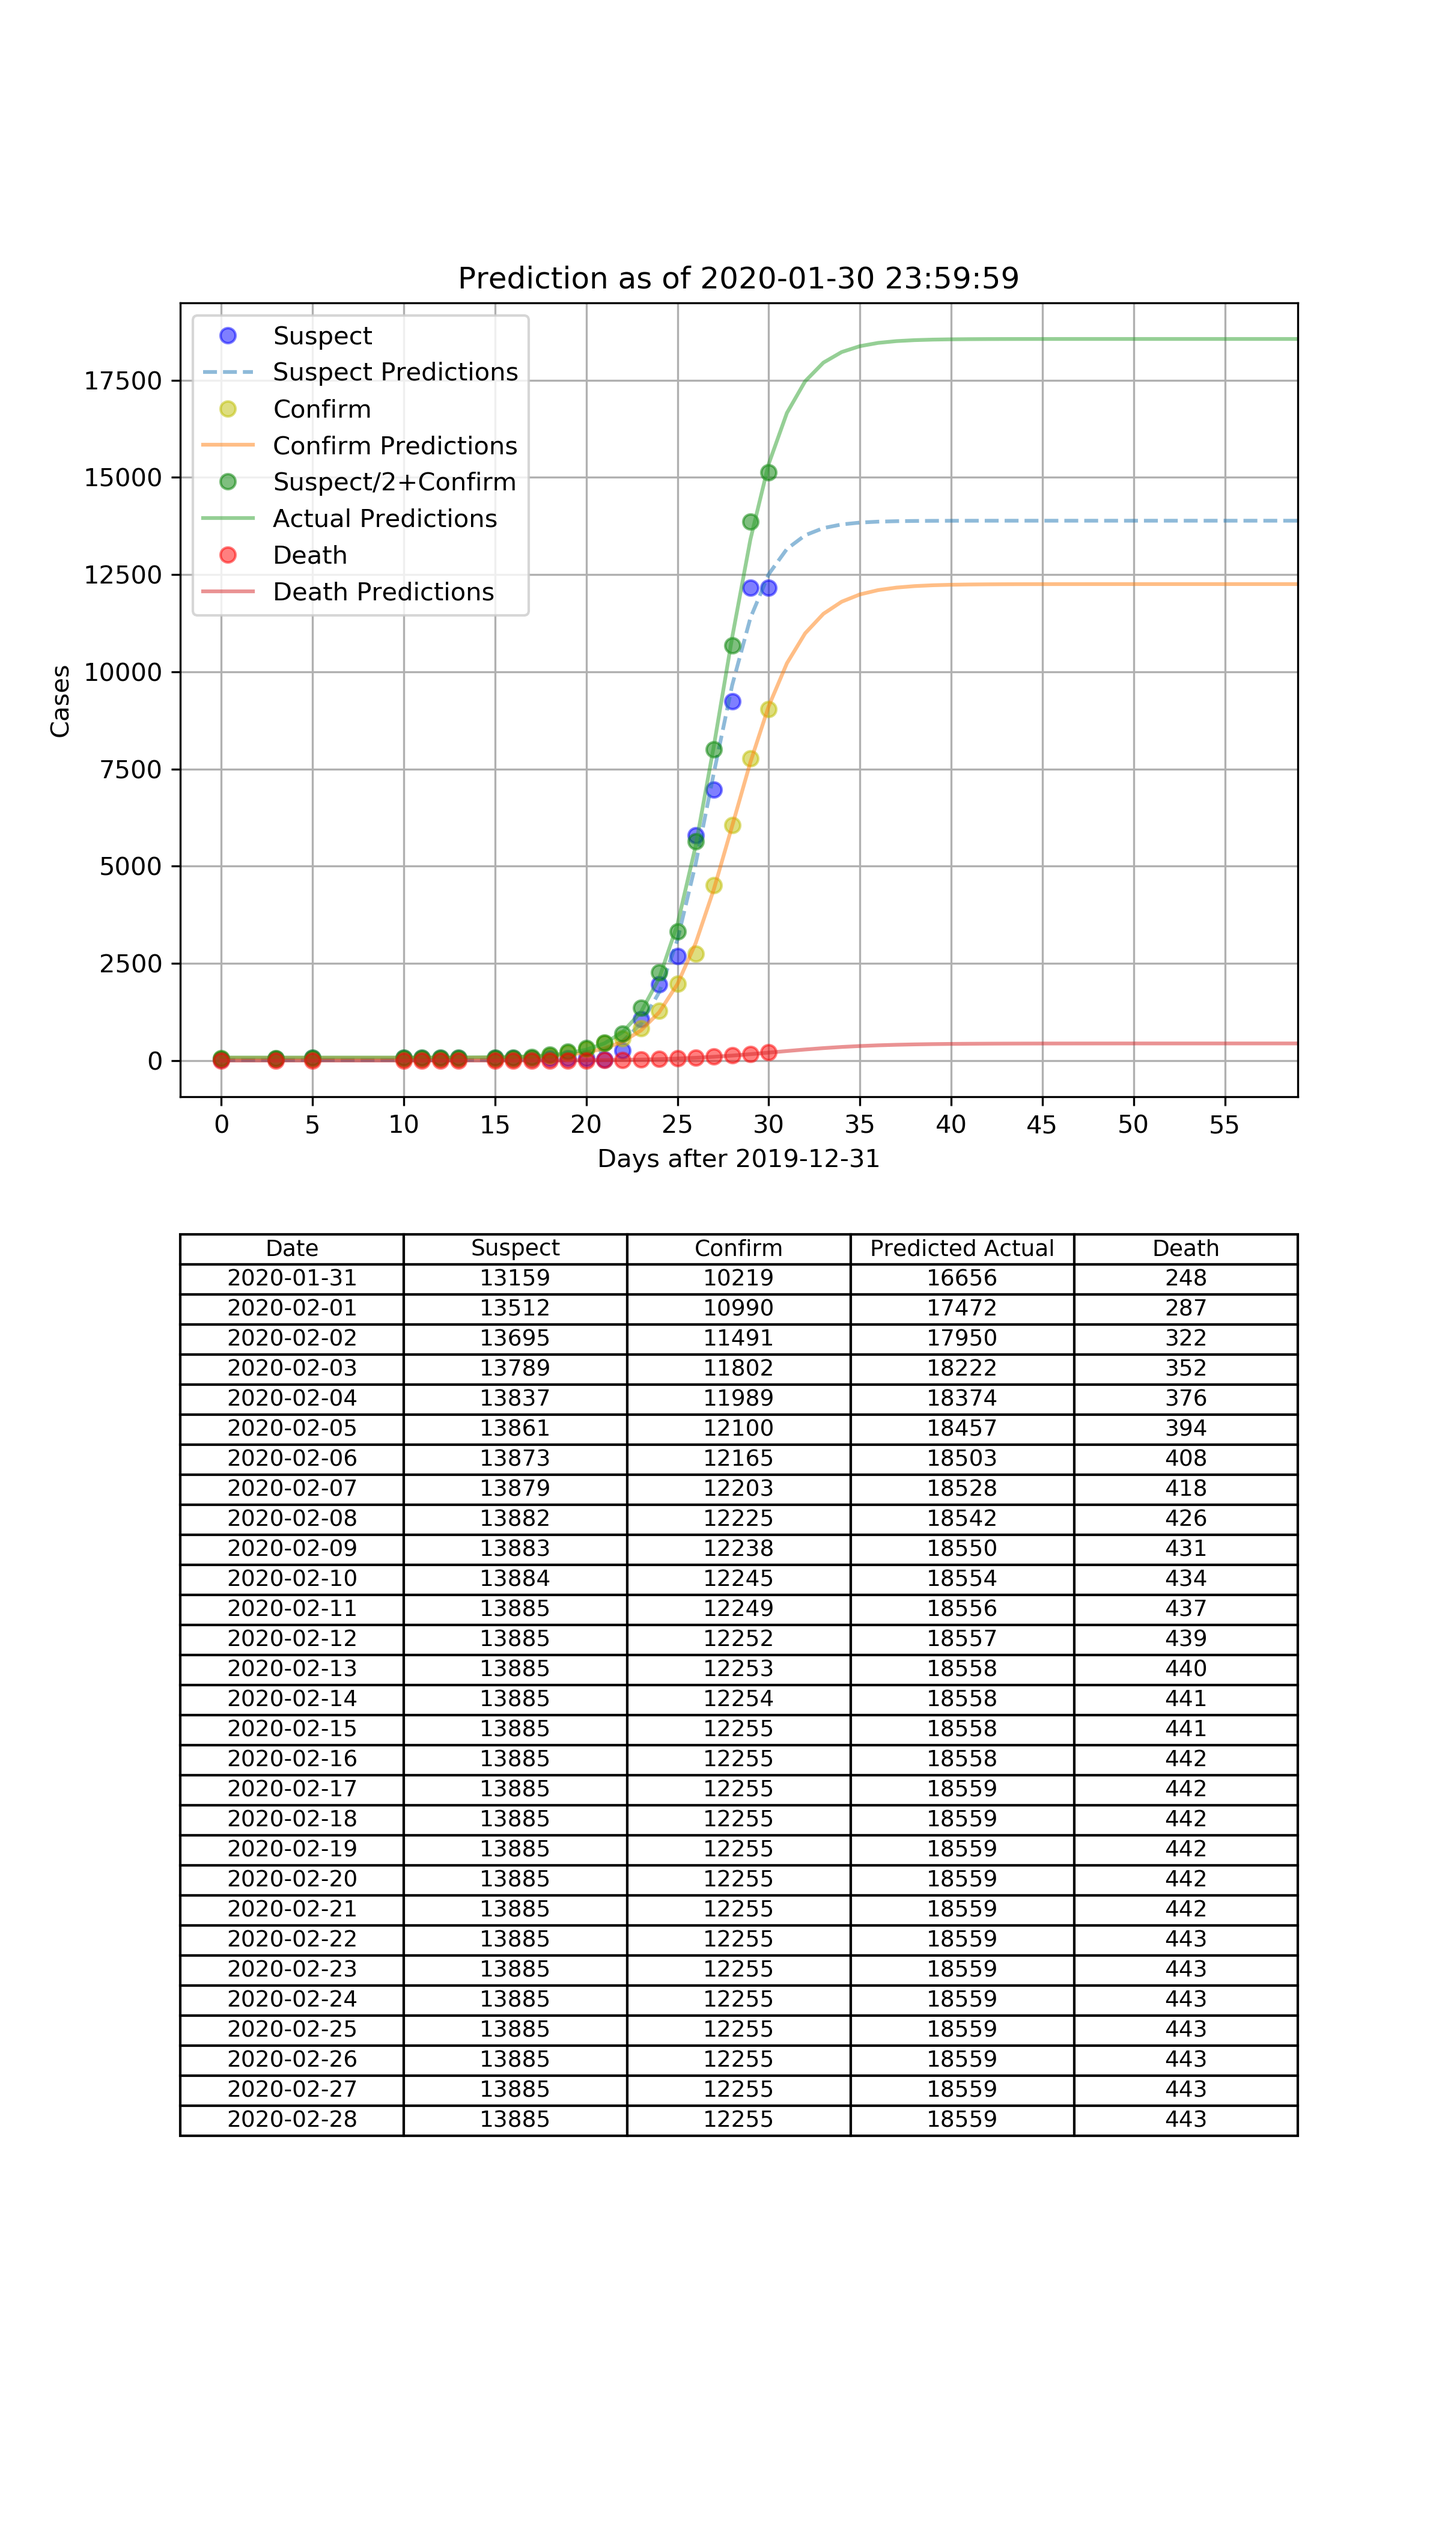
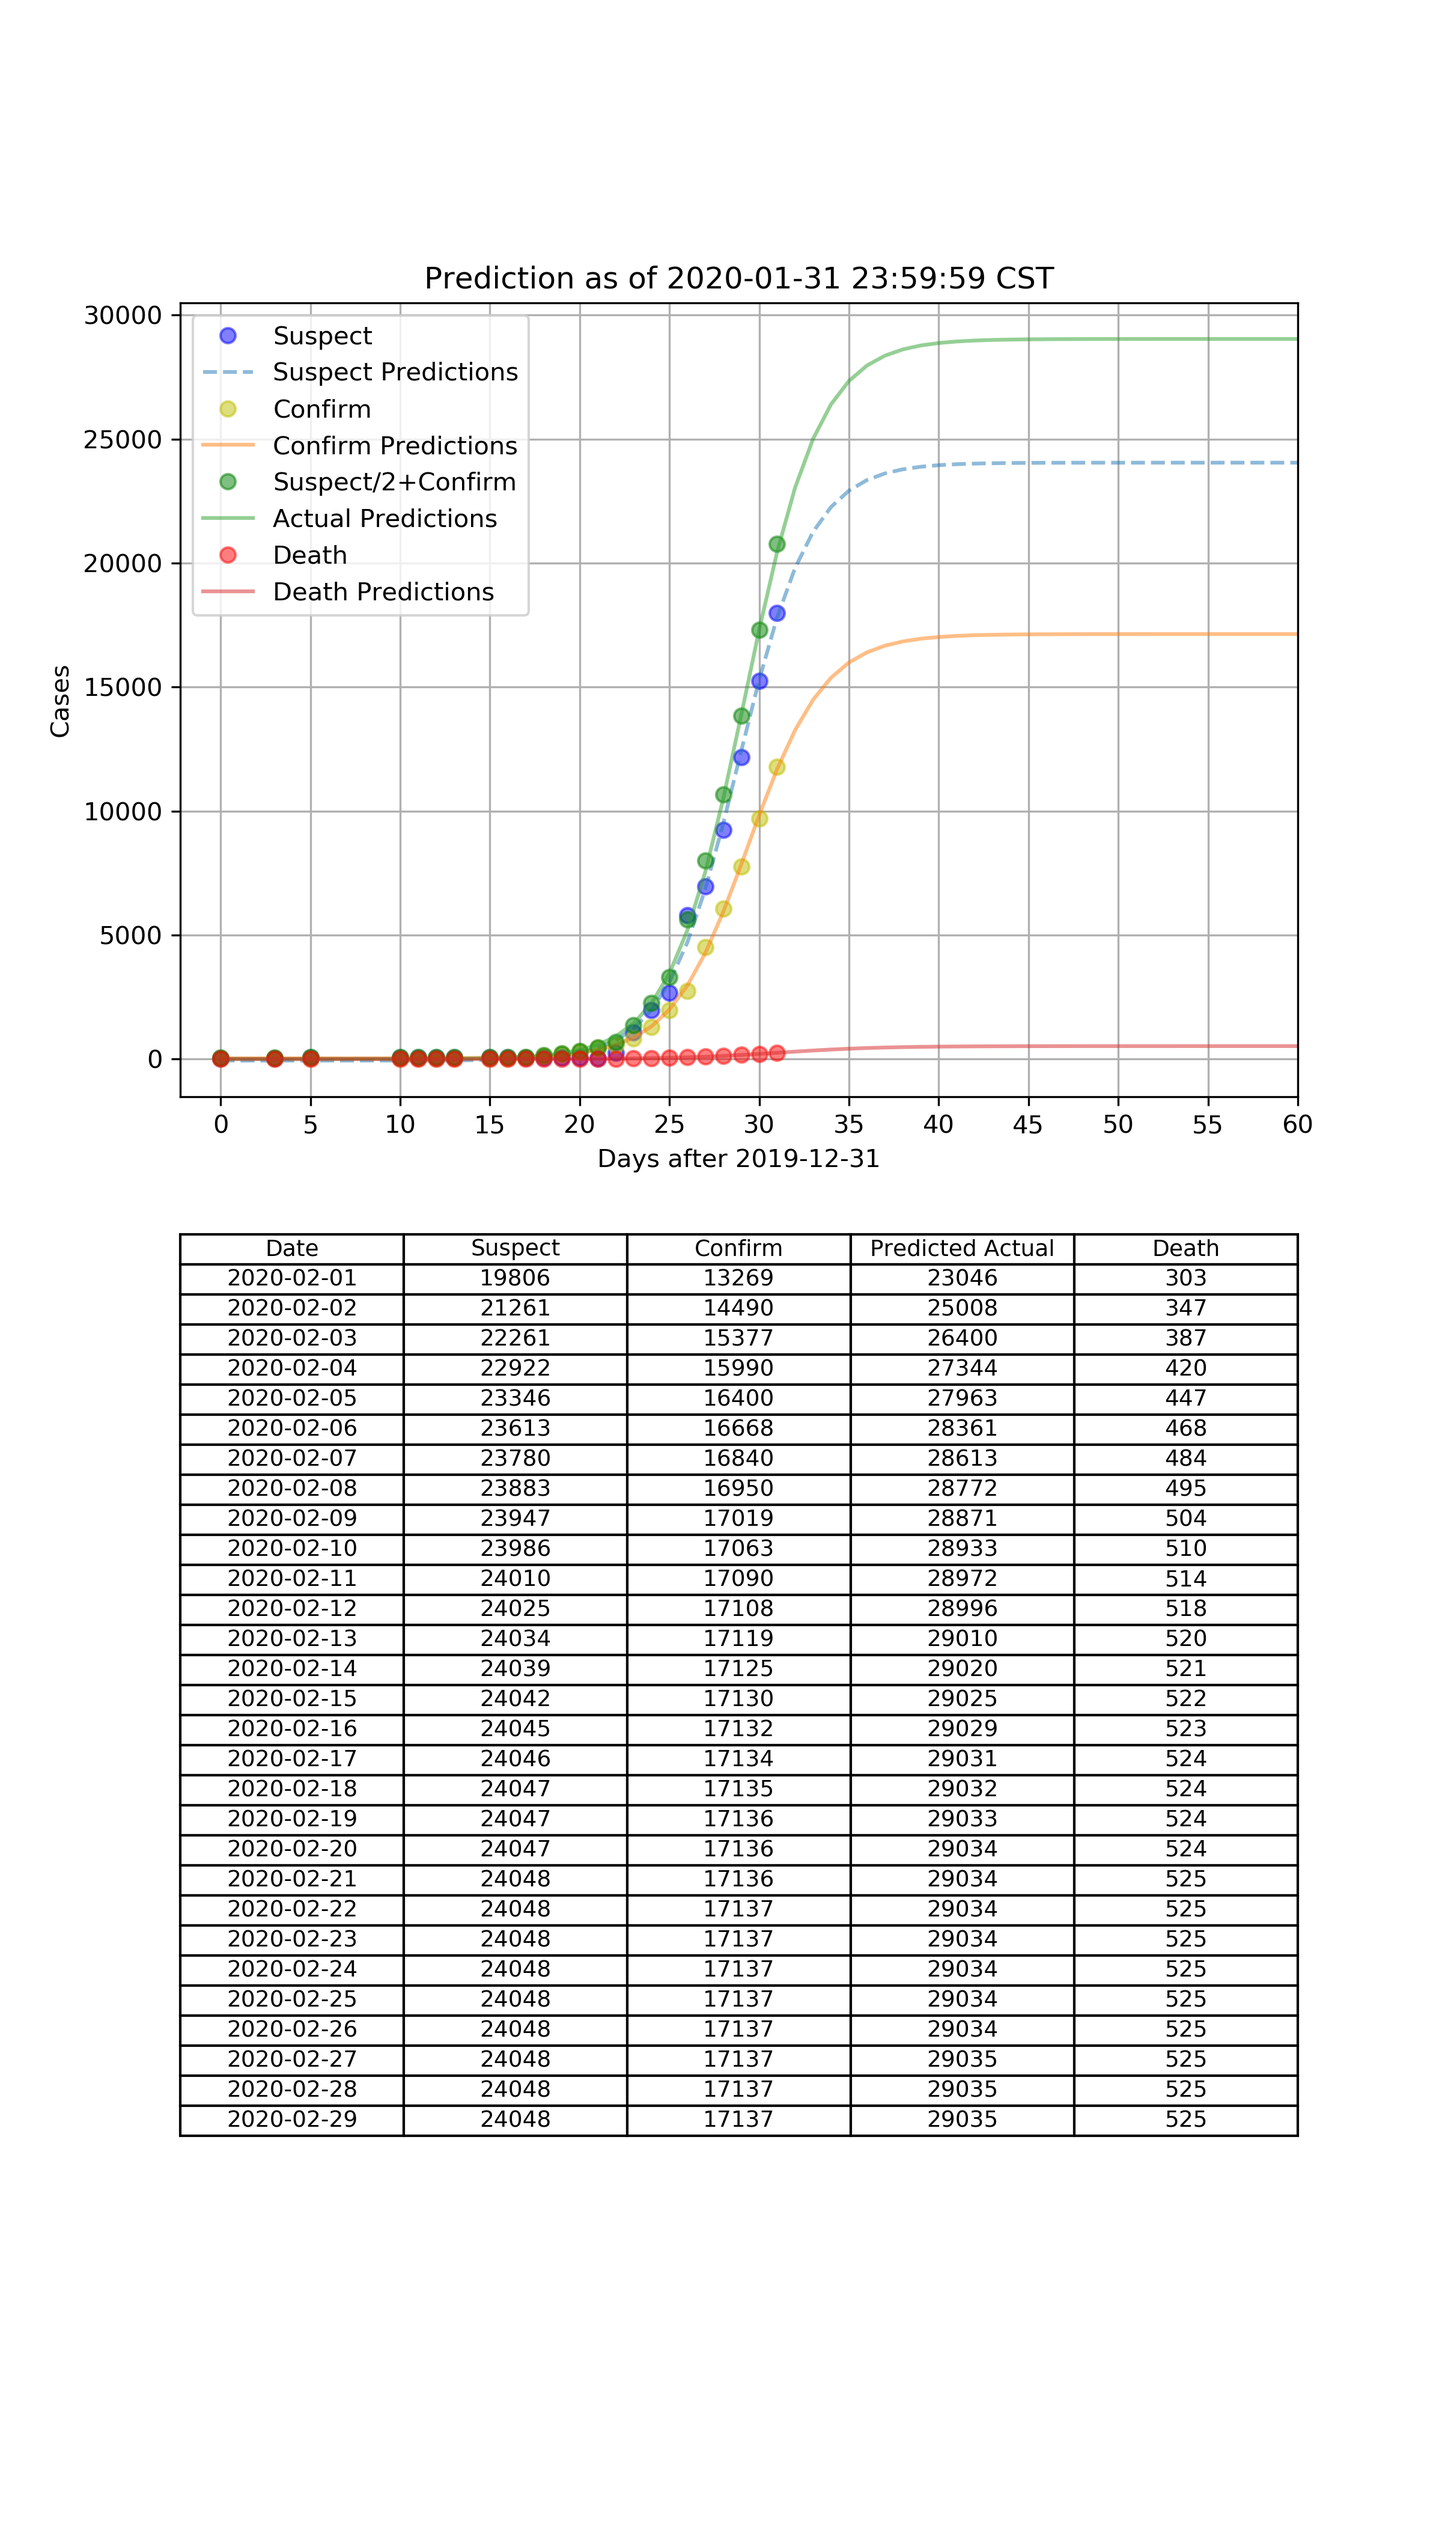
update 2020-01-31

diff --git a/2019_nCoV_SIR.py b/2019_nCoV_SIR.py
@@ -3,7 +3,7 @@ from scipy.integrate import odeint
 import matplotlib.pyplot as plt
 
 import pandas as pd
-from datetime import datetime
+from datetime import datetime, timedelta
 
 info_frame = pd.read_csv('data/2019-nCoV.csv')
 info_frame.fillna(method='ffill', inplace=True)
@@ -20,13 +20,13 @@ Y_frame = info_frame.drop(['Date CST'], axis=1)
 Ys = Y_frame.to_numpy().transpose()
 
 # Total population, N.
-N = 1400000000
+N = 30000000
 # Initial number of infected and recovered individuals, I0 and R0.
 I0, R0 = 1, 0
 # Everyone else, S0, is susceptible to infection initially.
 S0 = N - I0 - R0
 # Contact rate, beta, and mean recovery rate, gamma, (in 1/days).
-beta, gamma = 0.6, 1e-3
+beta, gamma = 0.6, 4e-3
 # A grid of time points (in days)
 t = np.linspace(0, 160, 160)
 
@@ -46,26 +46,34 @@ y0 = S0, I0, R0
 ret = odeint(deriv, y0, t, args=(N, beta, gamma))
 S, I, R = ret.T
 
-plt.clf()
-plt.rcParams['figure.figsize'] = [8, 6]
 
-axs = [None, None]
-axs[0] = plt.subplot()
+def graph():
+    plt.clf()
+    plt.rcParams['figure.figsize'] = [8, 6]
 
-axs[0].set_xlabel('Days after 2019-12-31')
-axs[0].set_ylabel('Cases')
+    axs = [None, None]
+    axs[0] = plt.subplot()
 
-# axs[0].plot(X, Ys[0], 'yo', label='Suspect', alpha=0.5)
-# axs[0].plot(X, Ys[1], 'ro', label='Confirm', alpha=0.5)
-axs[0].plot(X, Ys[0] / 2 + Ys[1], 'bo', label='Suspect/2+Confirm', alpha=0.5)
-axs[0].plot(X, Ys[3], 'go', label='Recovered', alpha=0.5)
-# axs[0].set_xlim(-2.25, today_days + 29)
-# axs[0].set_xticks(np.arange(today_days + 30, step=5))
-axs[0].grid()
-axs[0].legend(loc='best')
+    axs[0].title.set_text(
+        'Prediction as of {} CST (SIR model)'.format(str(today_date + timedelta(hours=23, minutes=59, seconds=59))))
+    axs[0].set_xlabel('Days after 2019-12-31')
+    axs[0].set_ylabel('Cases')
 
-# axs[0].plot(t, S/1000, 'b', alpha=0.5, lw=2, label='Susceptible')
-axs[0].plot(t, I/1000, 'r', alpha=0.5, lw=2, label='Infected')
-axs[0].plot(t, R/1000, 'g', alpha=0.5, lw=2, label='Recovered with immunity')
+    axs[0].plot(X, Ys[0] / 2 + Ys[1], 'bo', label='Suspect/2+Confirm', alpha=0.5)
+    axs[0].plot(X, Ys[3], 'go', label='Recovered', alpha=0.5)
+    axs[0].set_xlim(-2.25, today_days + 29)
+    axs[0].set_xticks(np.arange(today_days + 30, step=5))
 
-plt.show()
+    # axs[0].plot(t, S/1000, 'b', alpha=0.5, lw=2, label='Susceptible')
+    axs[0].plot(t, I / 1000, 'r', alpha=0.5, lw=2, label='Infected')
+    axs[0].plot(t, R / 1000, 'g', alpha=0.5, lw=2, label='Recovered with immunity')
+
+    axs[0].grid()
+    axs[0].legend(loc='best')
+
+    plt.savefig('predictionSIR.png', dpi=300)
+
+    plt.show()
+
+
+graph()

diff --git a/2019_nCoV.py b/2019_nCoV.py
@@ -123,7 +123,7 @@ def graph():
     axs[0] = plt.subplot(gs[:5, :])
     axs[1] = plt.subplot(gs[5:, :])
 
-    axs[0].title.set_text('Prediction as of {}'.format(str(today_date + timedelta(hours=23, minutes=59, seconds=59))))
+    axs[0].title.set_text('Prediction as of {} CST'.format(str(today_date + timedelta(hours=23, minutes=59, seconds=59))))
 
     collabel = ("Date", "Suspect", "Confirm", "Predicted Actual", "Death")
     axs[1].axis('tight')

diff --git a/README.MD b/README.MD
@@ -5,3 +5,6 @@ Data from: https://en.wikipedia.org/wiki/Timeline_of_the_2019%E2%80%9320_Wuhan_c
 
 Most recent prediction:
 ![prediction.png](https://raw.githubusercontent.com/DEDZTBH/2019-nCoV-prediction/master/prediction.png)
+
+SIR model:
+![predictionSIR.png](https://raw.githubusercontent.com/DEDZTBH/2019-nCoV-prediction/master/predictionSIR.png)
